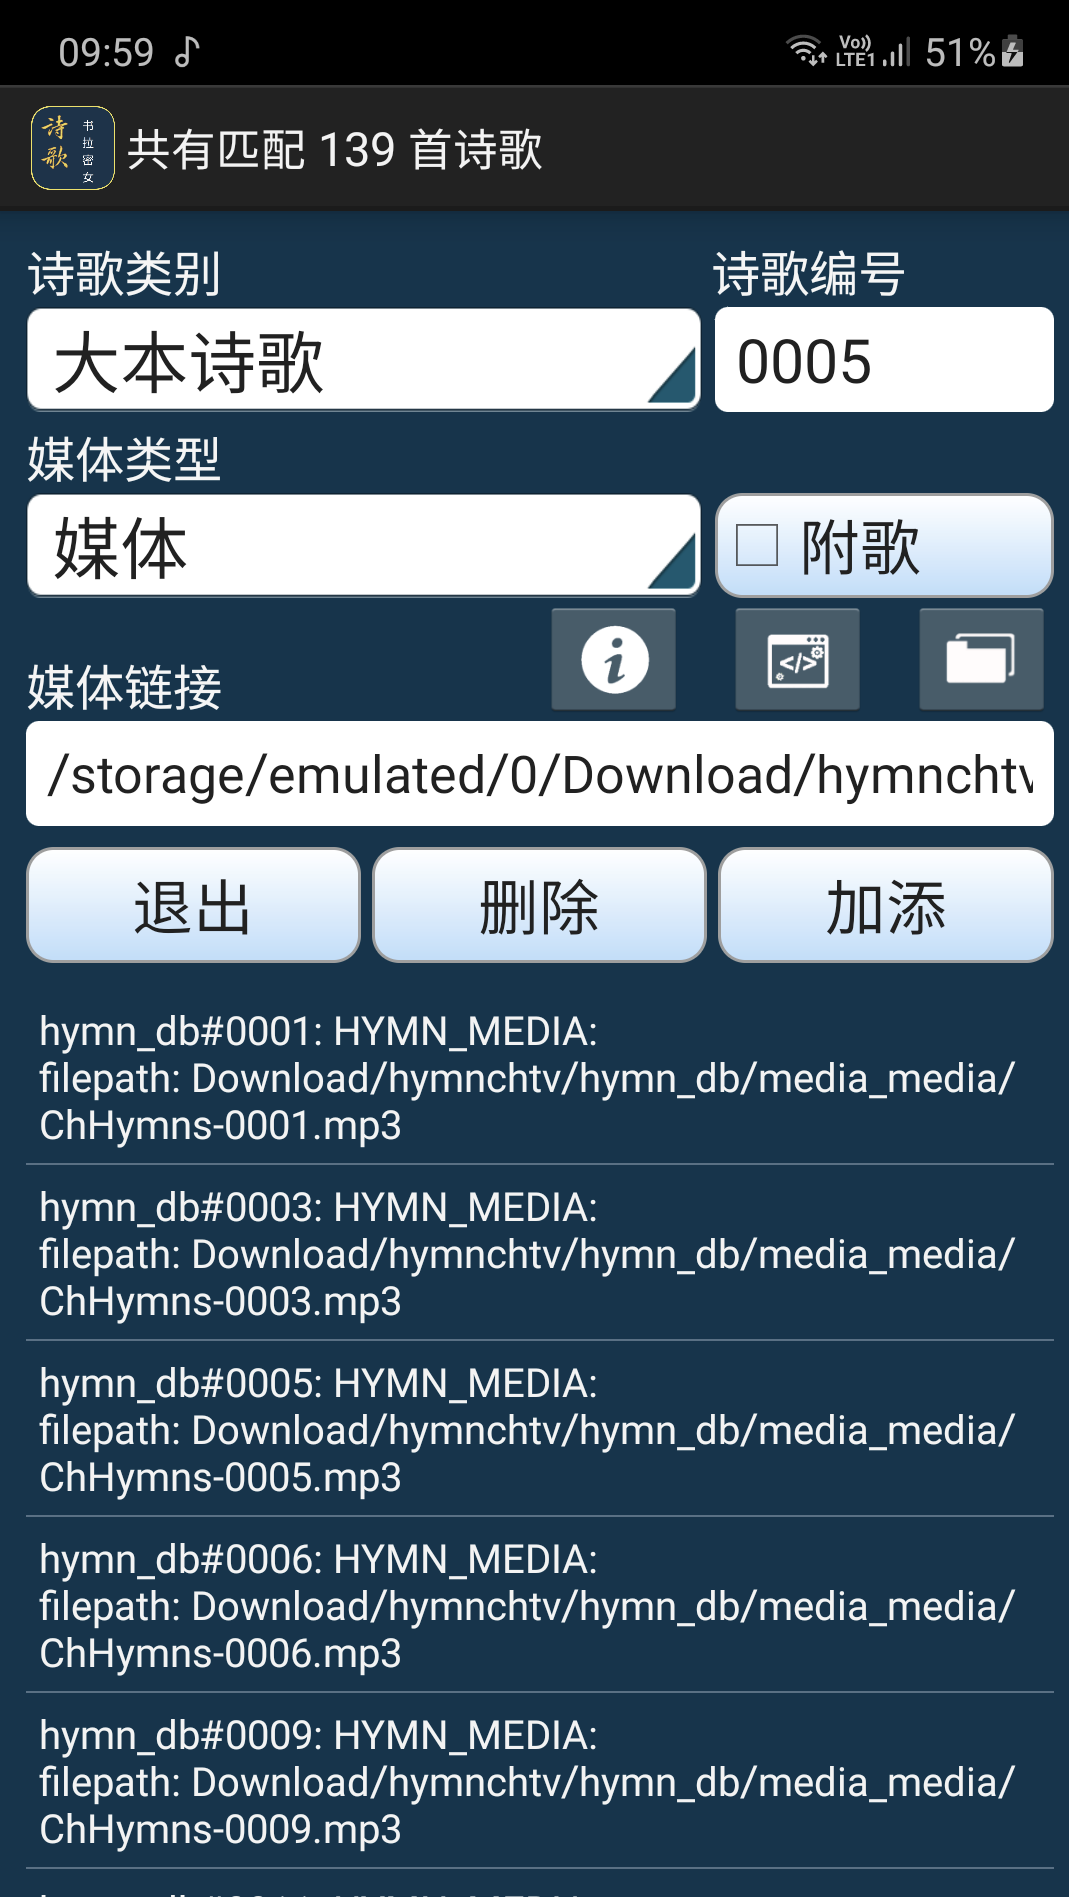
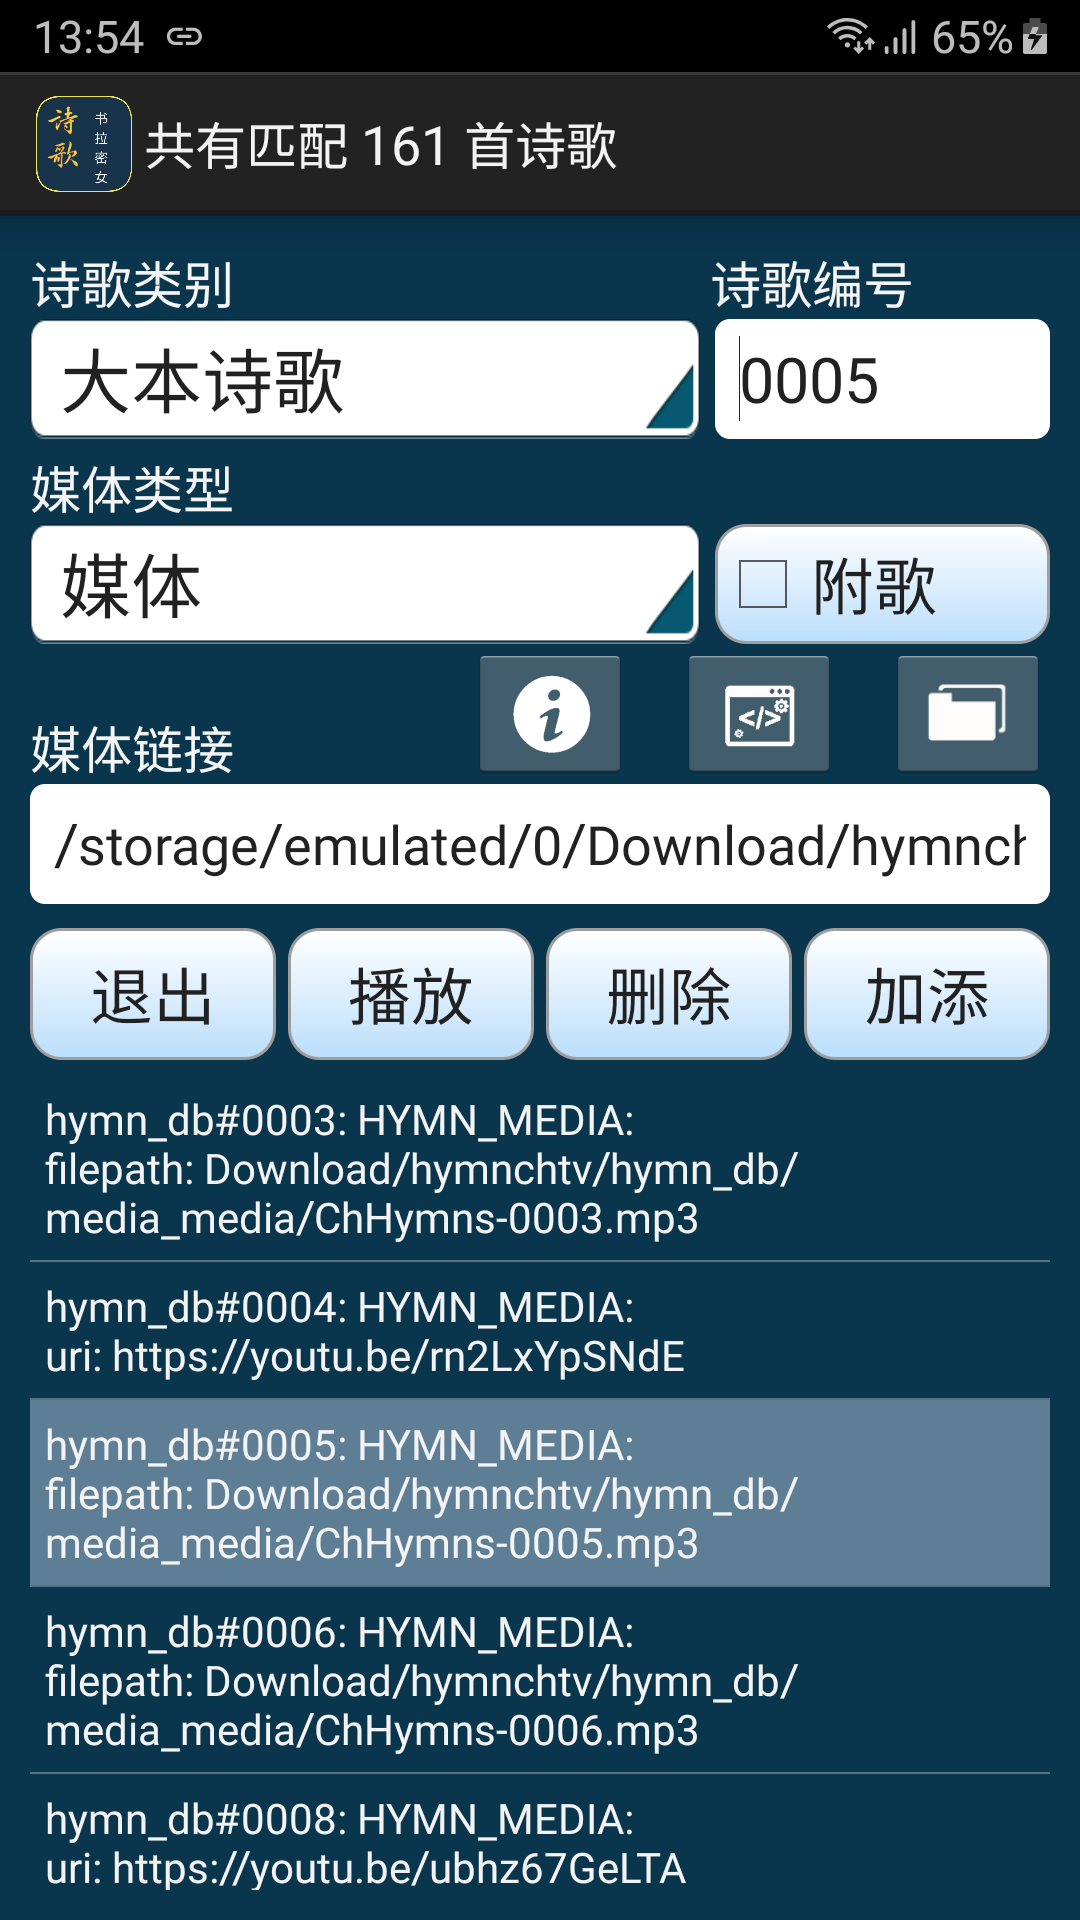
add new UI features

diff --git a/hymnchtv/faq.html b/hymnchtv/faq.html
@@ -344,6 +344,8 @@ ul li {
        </li>
        <li><b>退出</b>: Click the 退出 button to close the media record listing window, or exit the user defined media
          configuration setup.</li>
+       <li><b>播放</b>: After you have saved the new media record, or selected an item from the media record list; click
+         the 播放 button to play the media content.</li>
      </ul>
    </div>
    <div class='innerText'>Follow the steps given below, if the desired medium content to associate with a given
@@ -397,10 +399,13 @@ ul li {
      using the tools described below: 
      <ul>
        <div class='innerText'><image src="./img/hymnchtv_media_db_config.png" align="right" width="25%" style="margin:5px 0px 20px 15px"/></div>
-       <li><b>数库导出</b>: Use this option to export all the media records in the database, and save them to a normal
-         text file. The exported file is saved in the hymnchtv pre-defined directory 
+       <li><b>数库导出</b>: Click this option button to export all the media records in the database, and save them to
+         a normal text file. The exported file is saved in the hymnchtv pre-defined directory 
          e.g. Download/hymnchtv/import_export/hymn_bb-20201213_142504.txt. The format of the filename used is
-         HymnType-timestamp, where HymnType is hymn_xx and the timestamp format is "YYYYMMDD_HHMMSS".</li>
+         HymnType-&lt;timestamp>, where HymnType is hymn_xx and the timestamp format is "YYYYMMDD_HHMMSS". The exported file
+         contains only the media records from the currently selected HymnType. If you long click on the button, the
+         file will contain all the media records for all the four defined HymnType's and the file is named with
+         hymn_all-&lt;timestamp>.txt. </li>
        <li><b><a href="./index.html#create_export">自建导出</a></b>: Instead of creating an individual media record per user desired media content, as described
          in the <a href='#hymnch_0070'>previous section</a>; one can actually use the auto-create export file for a
          batch media contents import. See below on the actual process and operation.</li>

diff --git a/hymnchtv/index.html b/hymnchtv/index.html
@@ -246,7 +246,7 @@
 					<h2>关于书拉密女诗歌应用程序</h2>
 					<div class="media">
             <image src="./img/13.hymnchtv_about.png"/>
-						<p>关于书拉密女诗歌程序界面。选择历史记录以查看应用程序发布记录日志</p>
+						<p>关于书拉密女诗歌程序界面。选择历史记录以查看应用程序发布记录日志。如果遇到应用程序问题，可以提交错误报告。</p>
 					</div>
 				</li>
 
